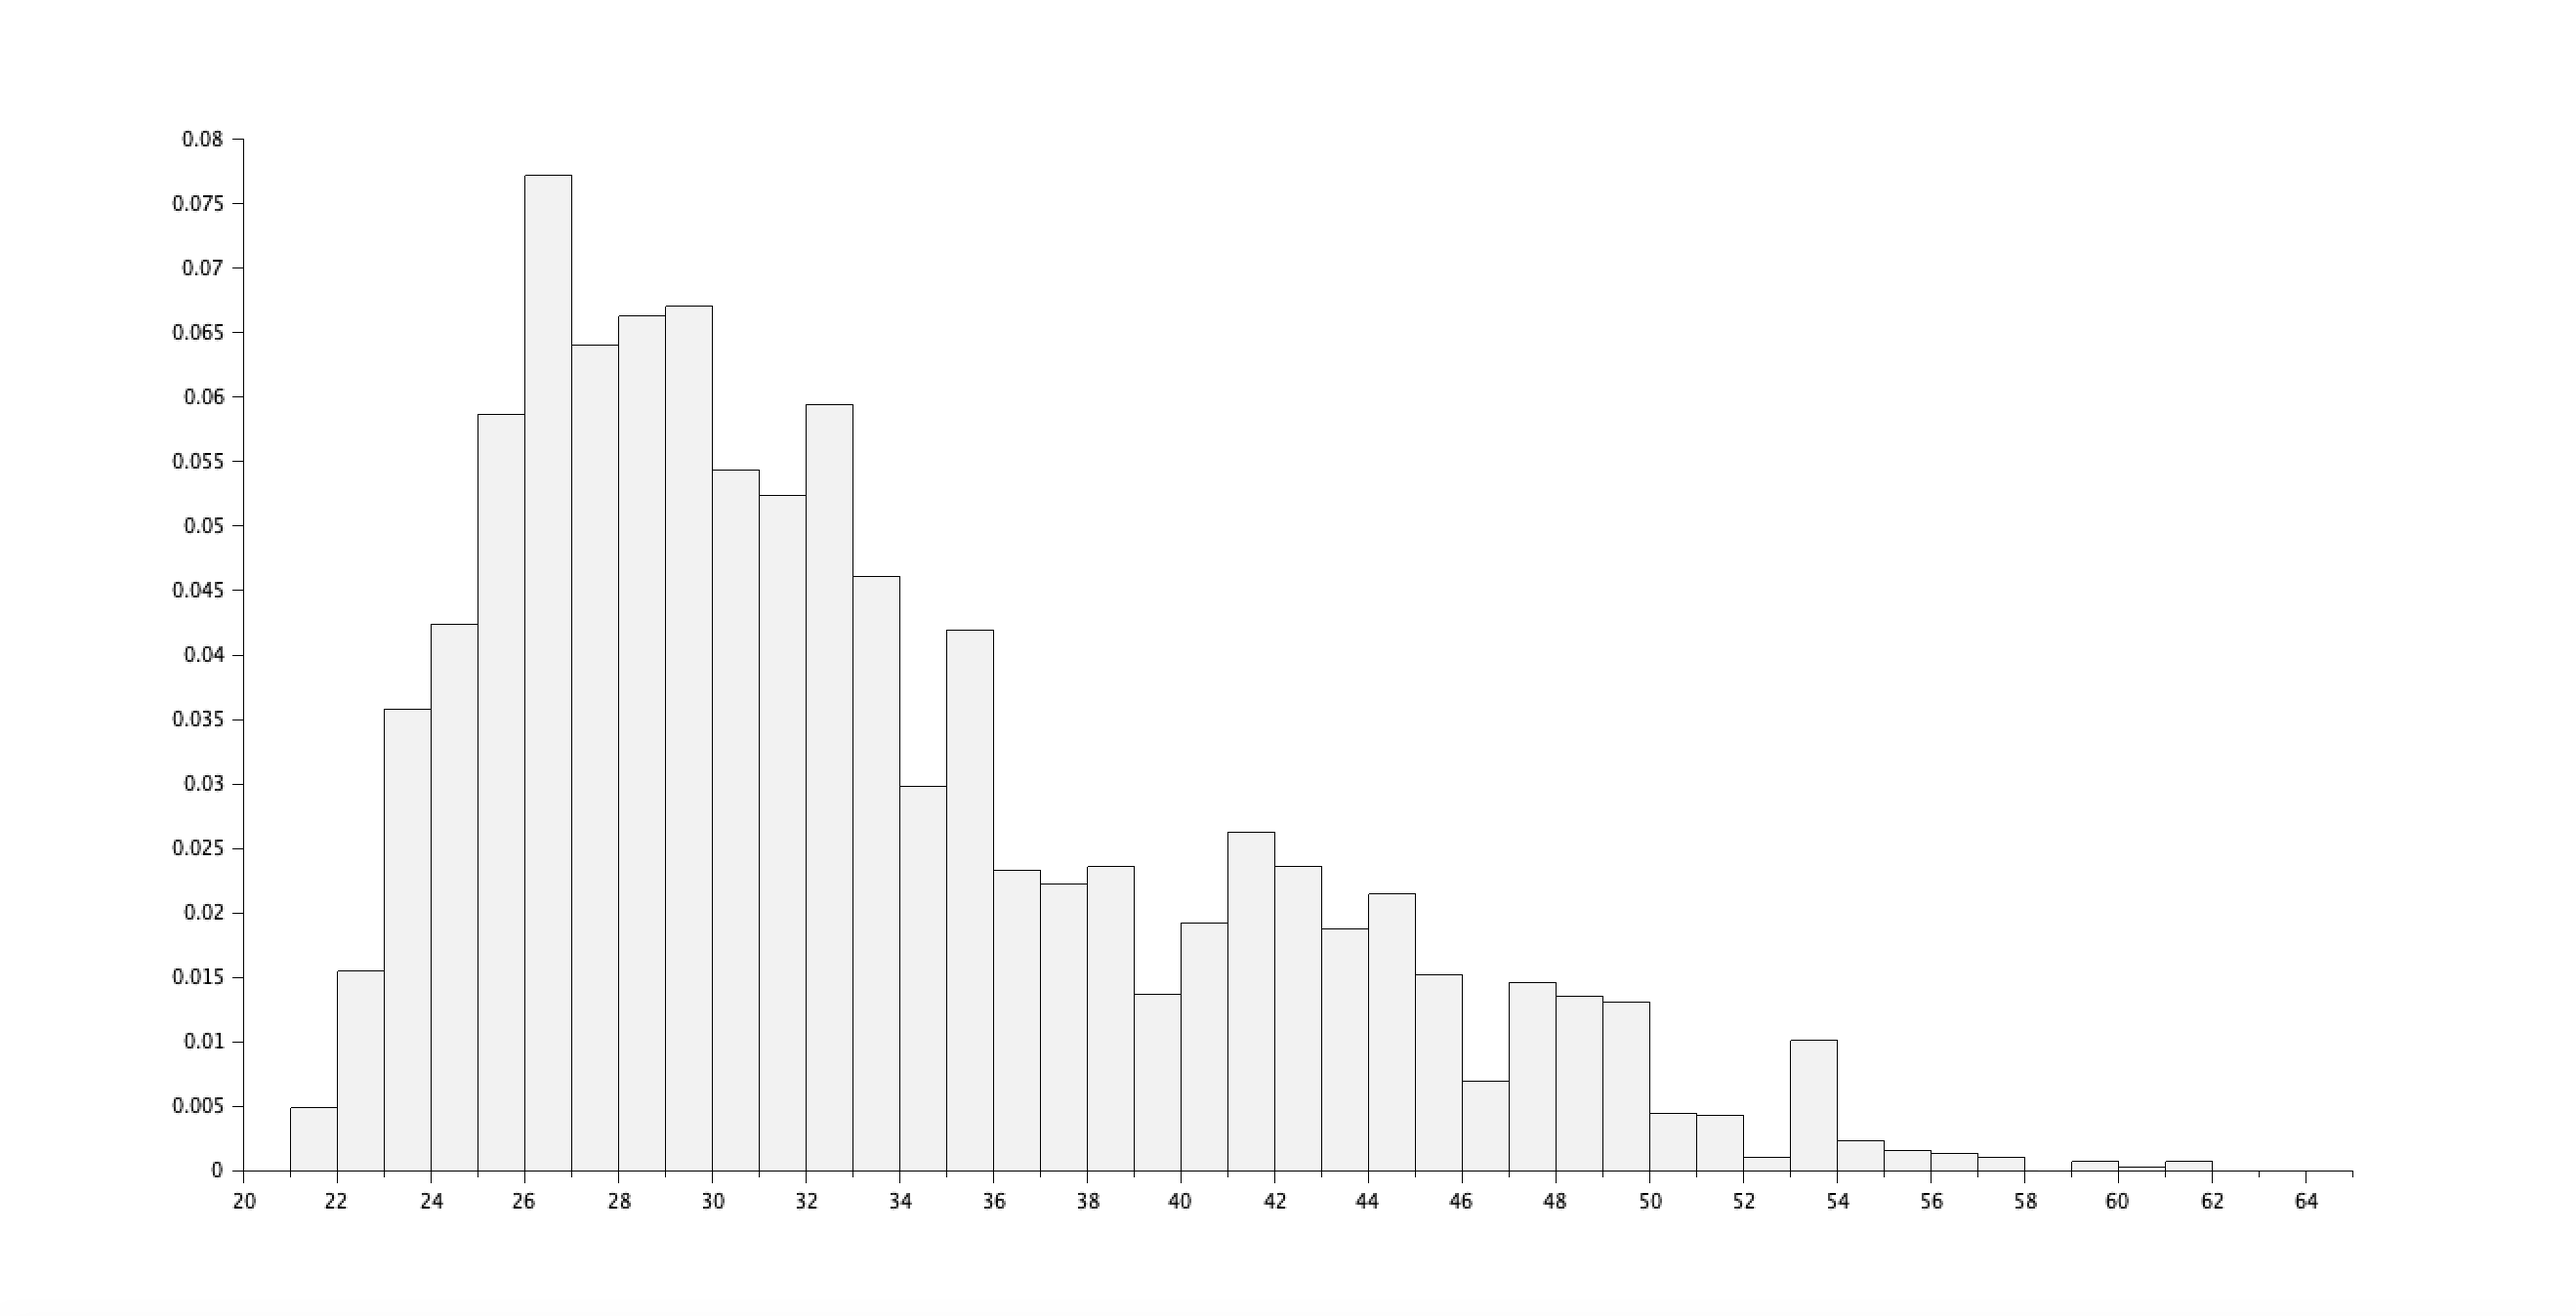
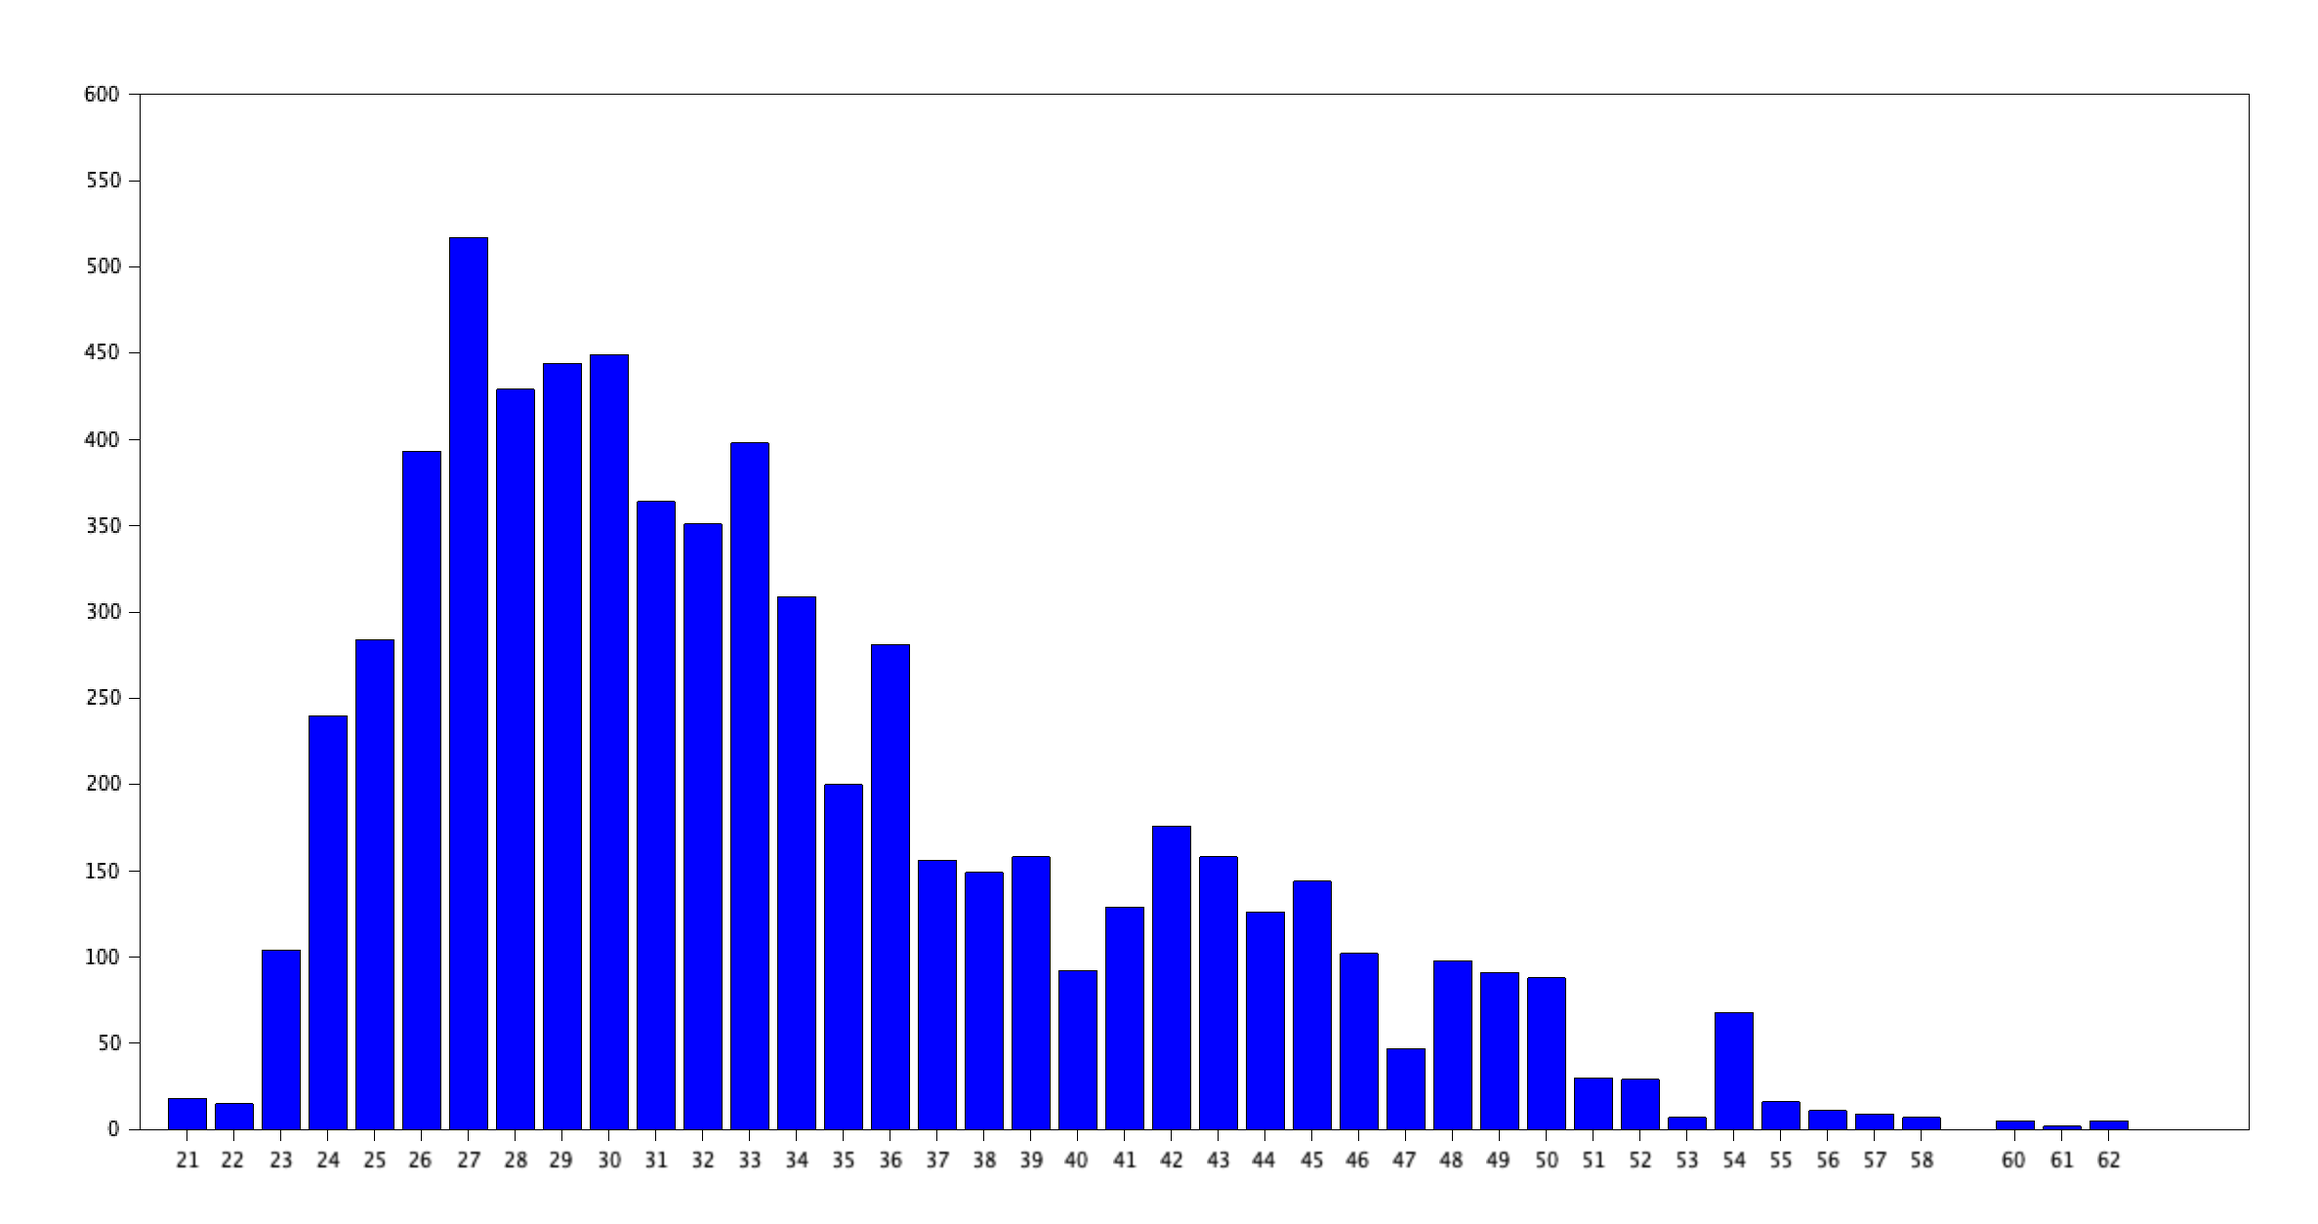
Modifs

diff --git a/EXO2/README.md b/EXO2/README.md
@@ -17,9 +17,8 @@ Pour cette exercice, veuillez initaliser les variables suivantes :
 **[Script Scilab](scripts/init.sce) :**
 
 ```scilab
-D = csvRead('data.csv');
-DD = csvRead('data.csv',',','.','string');
-genre = DD(:,3);
+csvDouble = csvRead("data.csv")                         //ouvre data.csv en une matrice d'entier
+csvString = csvRead("data.csv",[],[],'string')          //ouvre data.csv en une matrice de string
 ```
 
 ---
@@ -31,10 +30,8 @@ genre = DD(:,3);
 **[Script Scilab](scripts/q1.sce) :**
 
 ```scilab
-age = D(:, 2);
-min_age = min(age); 
-max_age = max(age);  
-histplot(41,age);
+ages = tabul(csvDouble(:,2))
+bar(ages(:,1),ages(:,2))
 ```
 
 **Résultat :**
@@ -50,10 +47,8 @@ histplot(41,age);
 **[Script Scilab](scripts/q2.sce) :**
 
 ```scilab
-exp = D(:,6);
-min_xp = min(exp);
-max_xp = max(exp);
-histplot(34,exp);
+exp = tabul(csvDouble(:,6))
+bar(exp(:,1),exp(:,2))
 ```
 
 **Résultat :**
@@ -69,19 +64,18 @@ histplot(34,exp);
 **[Script Scilab](scripts/q3.sce) :**
 
 ```scilab
-Q = quart(age)
-IQR = Q(3) - Q(1) 
-min_age = min(age);
-max_age = max(age);
-mean(age)
-median(age)
+mean(csvDouble(:,2))        //moyenne
+min(csvDouble(:,2))         //min
+max(csvDouble(:,2))         //max
+median(csvDouble(:,2))      //médianne
+quart(csvDouble(:,2))       //quartile
+iqr(csvDouble(:,2))         //interquartile
+stdev(csvDouble(:,2))       //ecart-type
 
-unique_vals = unique(age);
-freq = histc(ages, unique_vals);
-[max_freq, max_index] = max(freq);
-age_mode = unique_vals(max_index);
-
-stdev(age)
+age = tabul(csvDouble(:,2))
+[occurence_tri,indice_tri] = gsort(age(:,2))
+liste_age = age(:,1)
+mode = liste_age(35)        //mode
 ```
 **Résultat :**
 
@@ -91,7 +85,7 @@ stdev(age)
 - Maximum : 62
 - Moyenne : 33.622033
 - Médiane : 32
-- Mode : 26
+- Mode : 27
 - Écart type de l'âge : 7.6156456
 
 ---
@@ -103,7 +97,14 @@ stdev(age)
 **[Script Scilab](scripts/q4.sce) :**
 
 ```scilab
-boxplot(age);
+// Installation de stibox
+atomsInstall("stixbox")
+
+// Lancement de stibox
+atomsLoad("stixbox")
+
+// Utilisation de stibox
+boxplot(csvDouble(:,2),"whisker",0.25,"orientation","horizontal")
 ```
 **Résultat :**
 
@@ -118,22 +119,22 @@ boxplot(age);
 **[Script Scilab](scripts/q5.sce) :**
 
 ```scilab
-Q = quart(exp) 
-IQR = Q(3) - Q(1)
-min_xp = min(exp); 
-max_xp = max(exp); 
-mean(exp)
-median(exp)
+mean(csvDouble(:,6))        //moyenne
+min(csvDouble(:,6))         //min
+max(csvDouble(:,6))         //max
+median(csvDouble(:,6))      //médianne
+quart(csvDouble(:,6))       //quartile
+iqr(csvDouble(:,6))         //interquartile
+stdev(csvDouble(:,6))       //ecart-type
 
-Unique_vals = unique(exp);
-Freq = histc(exp, Unique_vals);
-[max_Freq, max_Index] = max(Freq);
-exp_mode = Unique_vals(max_Index);
+exp = tabul(csvDouble(:,6))
+[occurence_tri,indice_tri] = gsort(exp(:,2))
+liste_exp = exp(:,1)
+mode = liste_exp(33)        //mode
 
-stdev(exp)
-
-
-boxplot(exp);
+atomsInstall("stixbox")
+atomsLoad("stixbox")
+boxplot(csvDouble(:,6),"whisker",0.25,"orientation","horizontal")
 ```
 **Résultat :**
 
@@ -143,7 +144,7 @@ boxplot(exp);
 - Maximum : 34
 - Moyenne : 8.0950142
 - Médiane : 7
-- Mode : 1.5
+- Mode : 2
 - Écart type : 6.0598534
 
 - 
